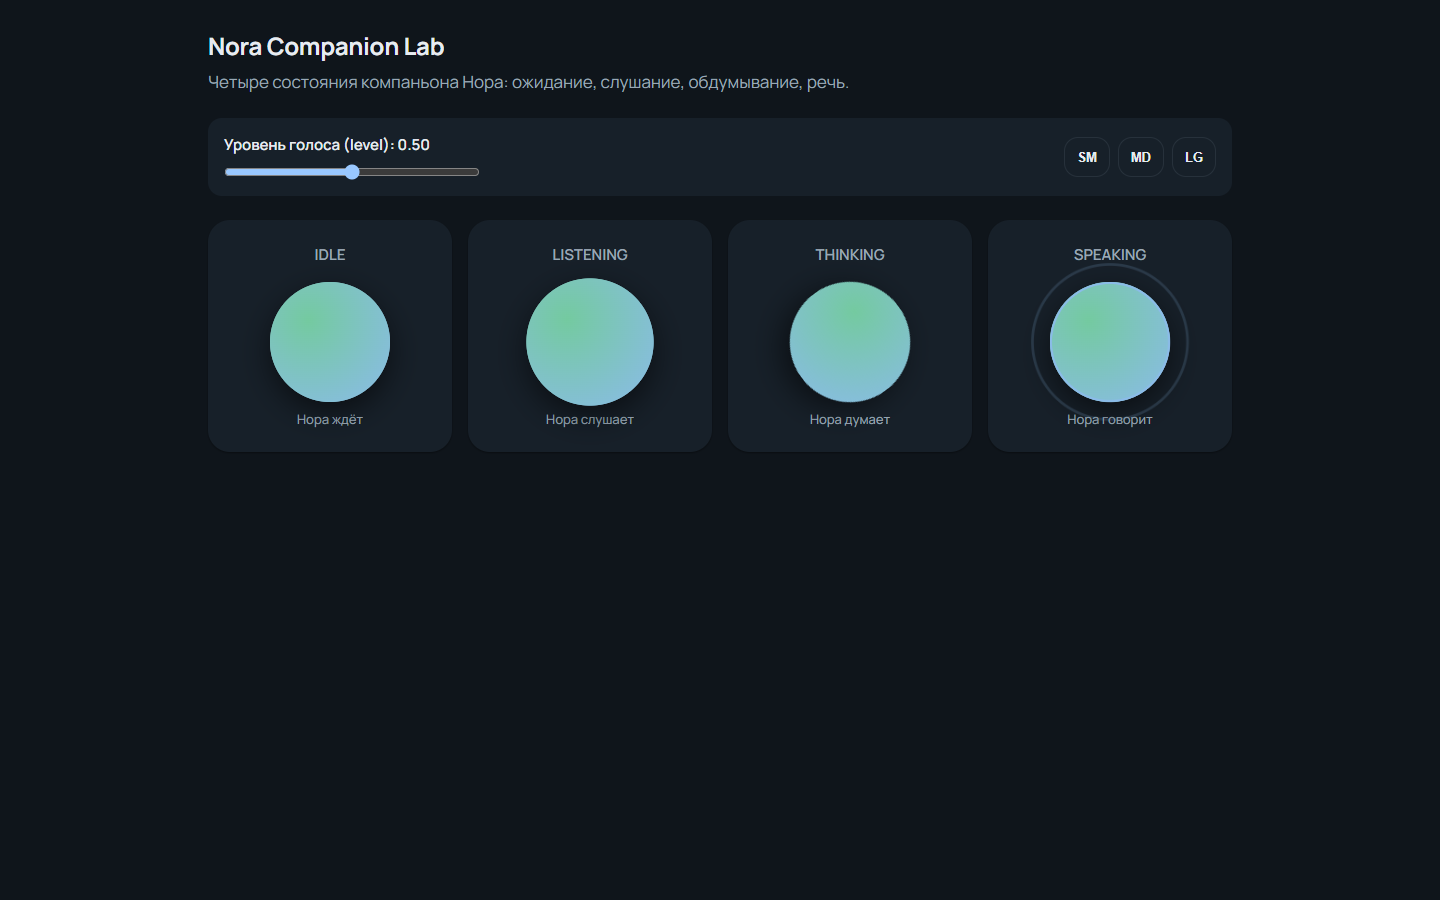
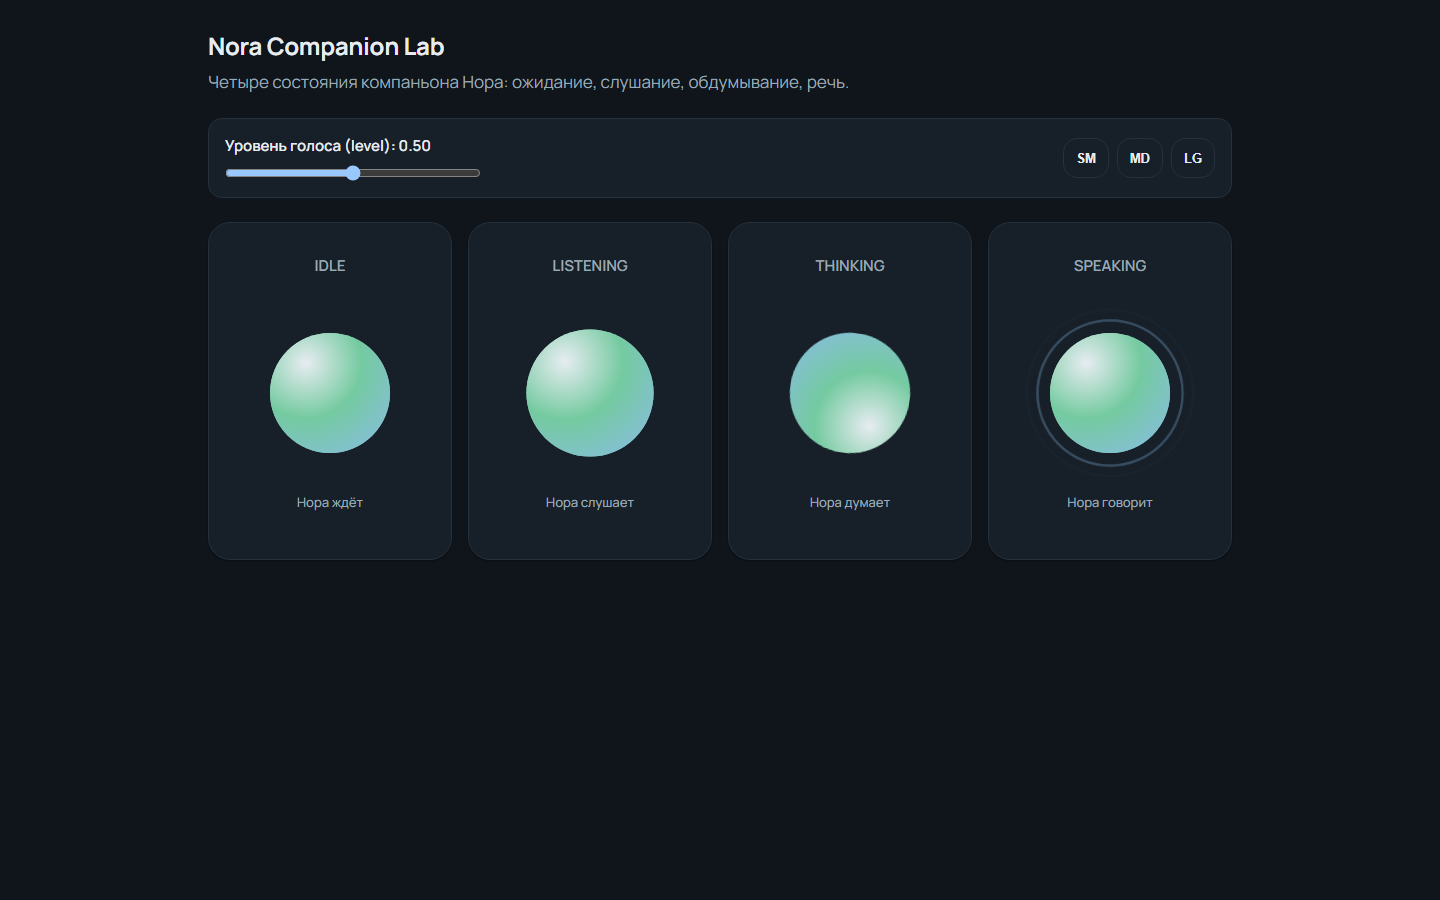
fix(nora): address review round 1 (use --ink/--line tokens, 3-stop northern-lights gradient, remove shadow, spacing for speaking ring)

diff --git a/src/components/companion/nora.css b/src/components/companion/nora.css
@@ -3,7 +3,8 @@
   flex-direction: column;
   align-items: center;
   justify-content: center;
-  gap: var(--space-2);
+  gap: var(--space-6);
+  padding-block: var(--space-4);
 }
 
 .nora-orb {
@@ -12,31 +13,65 @@
   align-items: center;
   justify-content: center;
   border-radius: var(--radius-pill);
-  background: radial-gradient(circle at 35% 35%, var(--success), var(--primary));
-  box-shadow: var(--shadow-float);
+  background: radial-gradient(
+    circle at 30% 25%,
+    var(--success-soft) 0%,
+    var(--success) 45%,
+    var(--primary) 100%
+  );
   transition: transform var(--duration-fast) var(--ease-standard);
 }
 
 .nora-orb-sm {
   width: 2.5rem;
   height: 2.5rem;
+  margin-block: var(--space-2);
 }
 
 .nora-orb-md {
   width: 4.5rem;
   height: 4.5rem;
+  margin-block: var(--space-3);
 }
 
 .nora-orb-lg {
   width: 7.5rem;
   height: 7.5rem;
+  margin-block: var(--space-4);
 }
 
 .nora-core {
   width: 100%;
   height: 100%;
   border-radius: var(--radius-pill);
-  background: radial-gradient(circle at 32% 32%, var(--success), var(--primary));
+  background: radial-gradient(
+    circle at 30% 25%,
+    var(--success-soft) 0%,
+    var(--success) 45%,
+    var(--primary) 100%
+  );
+}
+
+@media (prefers-color-scheme: dark) {
+  :root:not([data-theme="light"]):not([data-theme="contrast"]) .nora-orb,
+  :root:not([data-theme="light"]):not([data-theme="contrast"]) .nora-core {
+    background: radial-gradient(
+      circle at 30% 25%,
+      var(--ink) 0%,
+      var(--success) 45%,
+      var(--primary) 100%
+    );
+  }
+}
+
+:root[data-theme="dark"] .nora-orb,
+:root[data-theme="dark"] .nora-core {
+  background: radial-gradient(
+    circle at 30% 25%,
+    var(--ink) 0%,
+    var(--success) 45%,
+    var(--primary) 100%
+  );
 }
 
 .nora-orb-idle {
@@ -105,7 +140,7 @@
 .nora-lab-page {
   min-height: 100vh;
   background: var(--bg);
-  color: var(--text);
+  color: var(--ink);
   padding: var(--space-8) var(--space-4);
 }
 
@@ -130,7 +165,7 @@
 
 .nora-lab-controls {
   background: var(--surface);
-  border: 1px solid var(--border);
+  border: 1px solid var(--line);
   border-radius: var(--radius-md);
   padding: var(--space-4);
   display: flex;
@@ -166,19 +201,20 @@
 
 .nora-lab-card {
   background: var(--surface);
-  border: 1px solid var(--border);
+  border: 1px solid var(--line);
   border-radius: var(--radius-lg);
   box-shadow: var(--shadow-1);
-  padding: var(--space-6) var(--space-4);
+  padding: var(--space-8) var(--space-4);
   display: flex;
   flex-direction: column;
   align-items: center;
   justify-content: center;
-  gap: var(--space-4);
+  gap: var(--space-6);
 }
 
 .nora-lab-state-name {
   color: var(--muted);
   text-transform: uppercase;
 }
+
 
